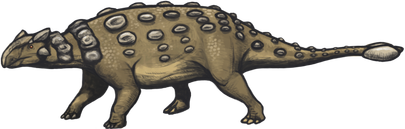
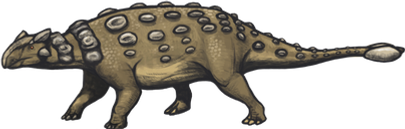
fix(comparison): trim transparent padding before length-based resize
Previous resize only scaled width by length_m, but each species PNG
had a different amount of leftover transparent margin around the feet
— so at render time (fixed render-height per pxPerMeter), the visible
feet landed at different pixel offsets from the box bottom, breaking
ground-line alignment. Now trims to the opaque bounding box first, so
every image's canvas bottom row is the actual feet.

diff --git a/scripts/resize-comparison-by-length.js b/scripts/resize-comparison-by-length.js
@@ -67,8 +67,12 @@ async function main() {
       console.error(`HIBA: nincs length_m adat "${name}"-hoz, kihagyva`);
       continue;
     }
+    // Előbb a valódi tartalom-bbox-ra vágunk (átlátszó margó eltávolítása) —
+    // enélkül a fajonként eltérő üres szegély miatt a lábak nem ugyanarra a
+    // pixel-magasságra esnének a dobozon belül, hiába egyezik a doboz alja.
+    const trimmed = await sharp(filePath).trim().toBuffer();
     const targetWidth = Math.round(lengthM * PX_PER_METER);
-    const buf = await sharp(filePath).resize({ width: targetWidth }).png().toBuffer();
+    const buf = await sharp(trimmed).resize({ width: targetWidth }).png().toBuffer();
     fs.writeFileSync(filePath, buf);
     const meta = await sharp(buf).metadata();
     console.log(`${name}: ${lengthM} m -> ${meta.width}x${meta.height}px`);
